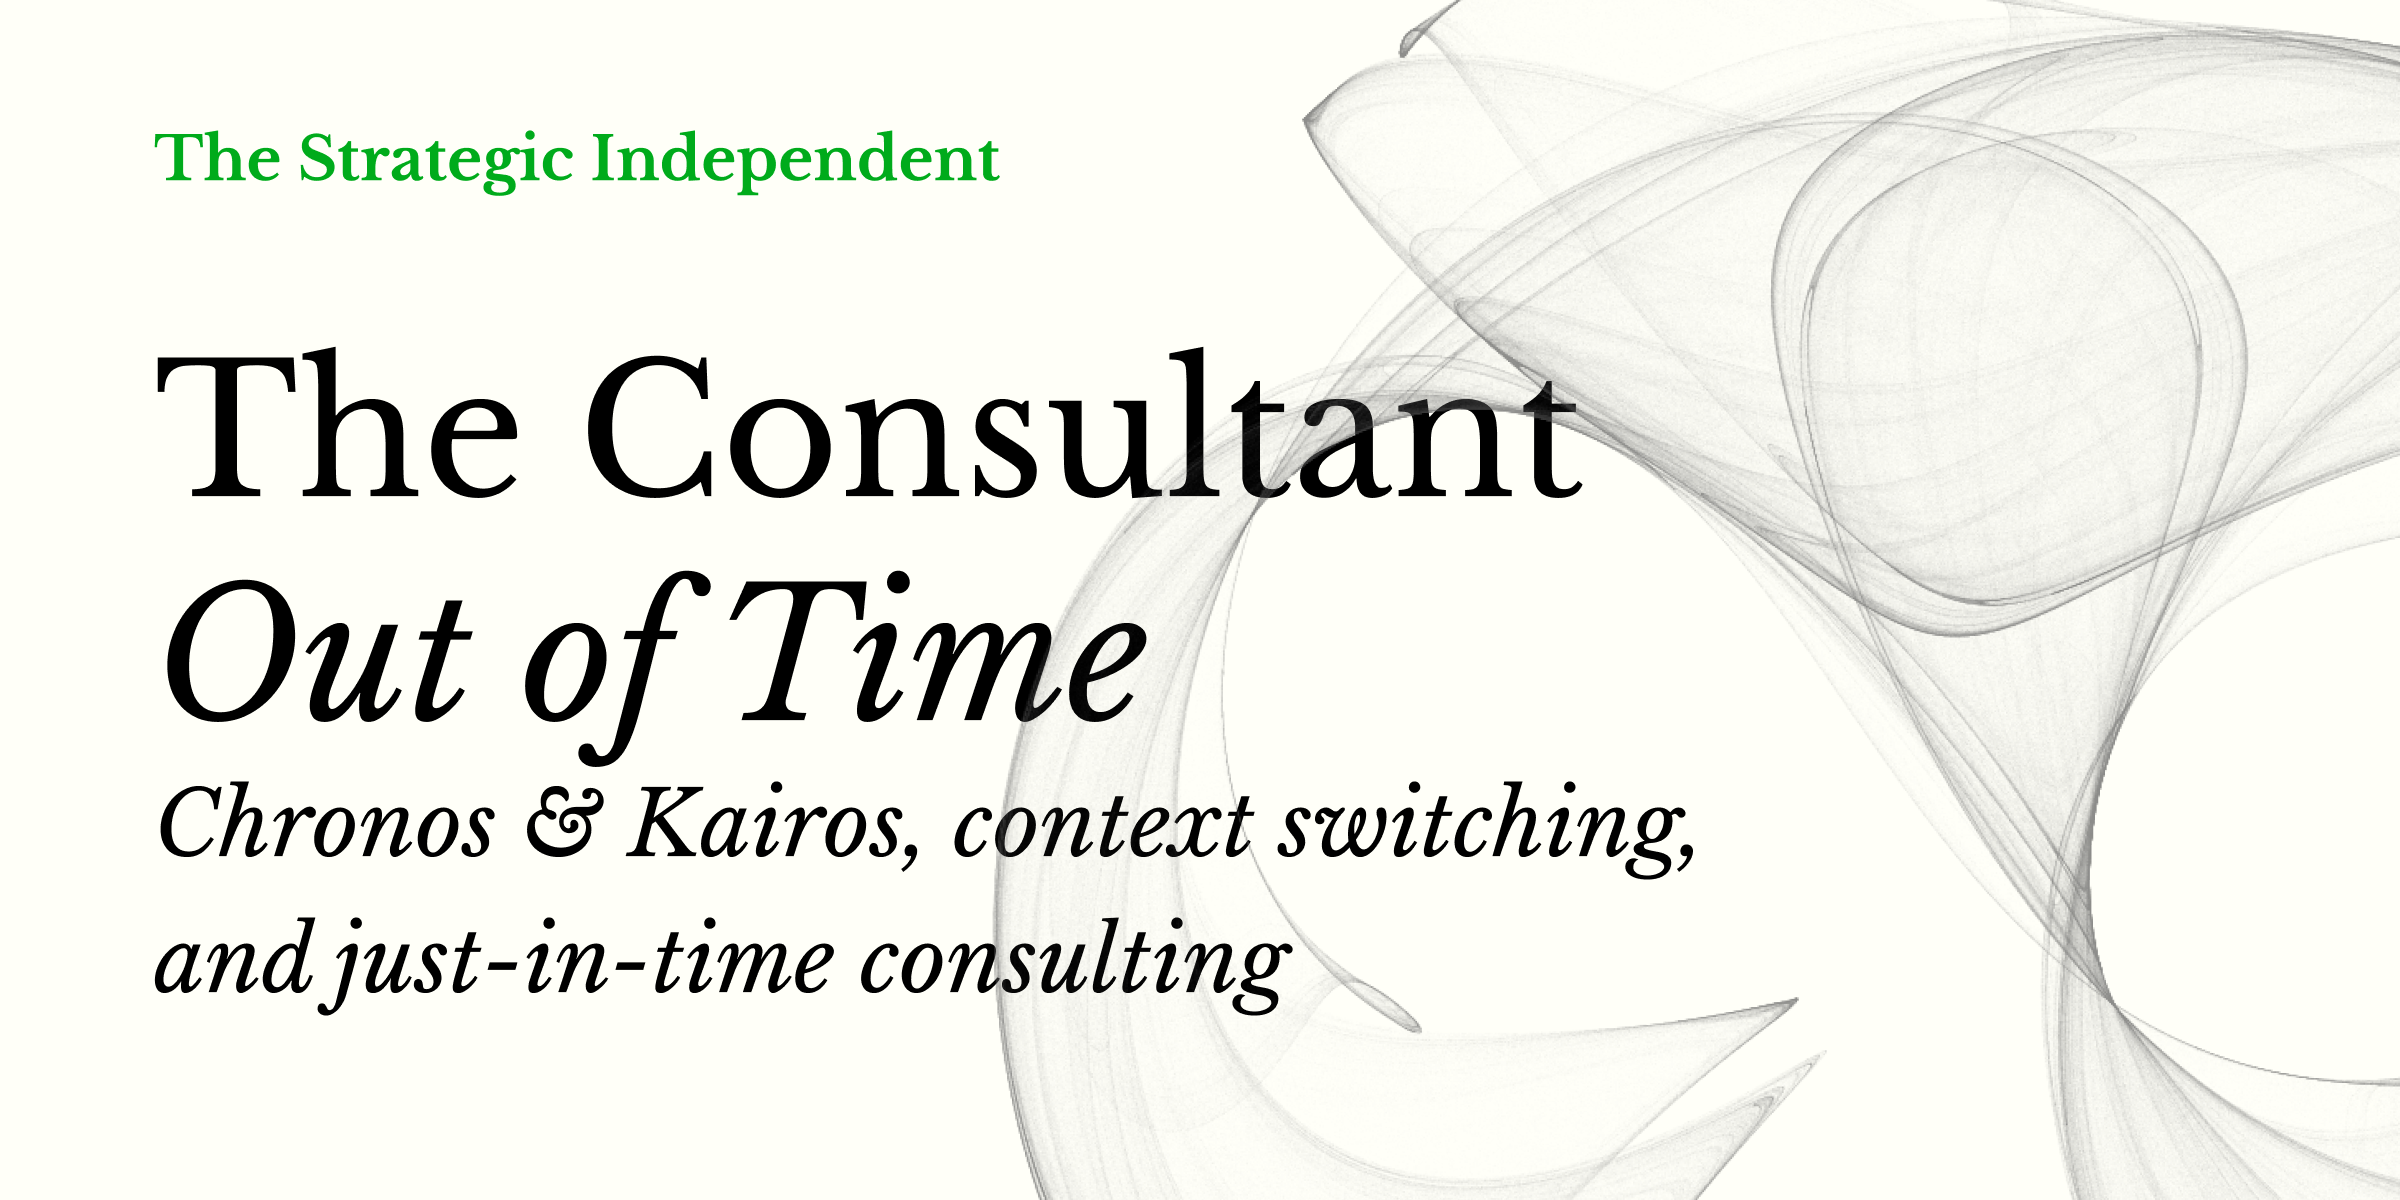
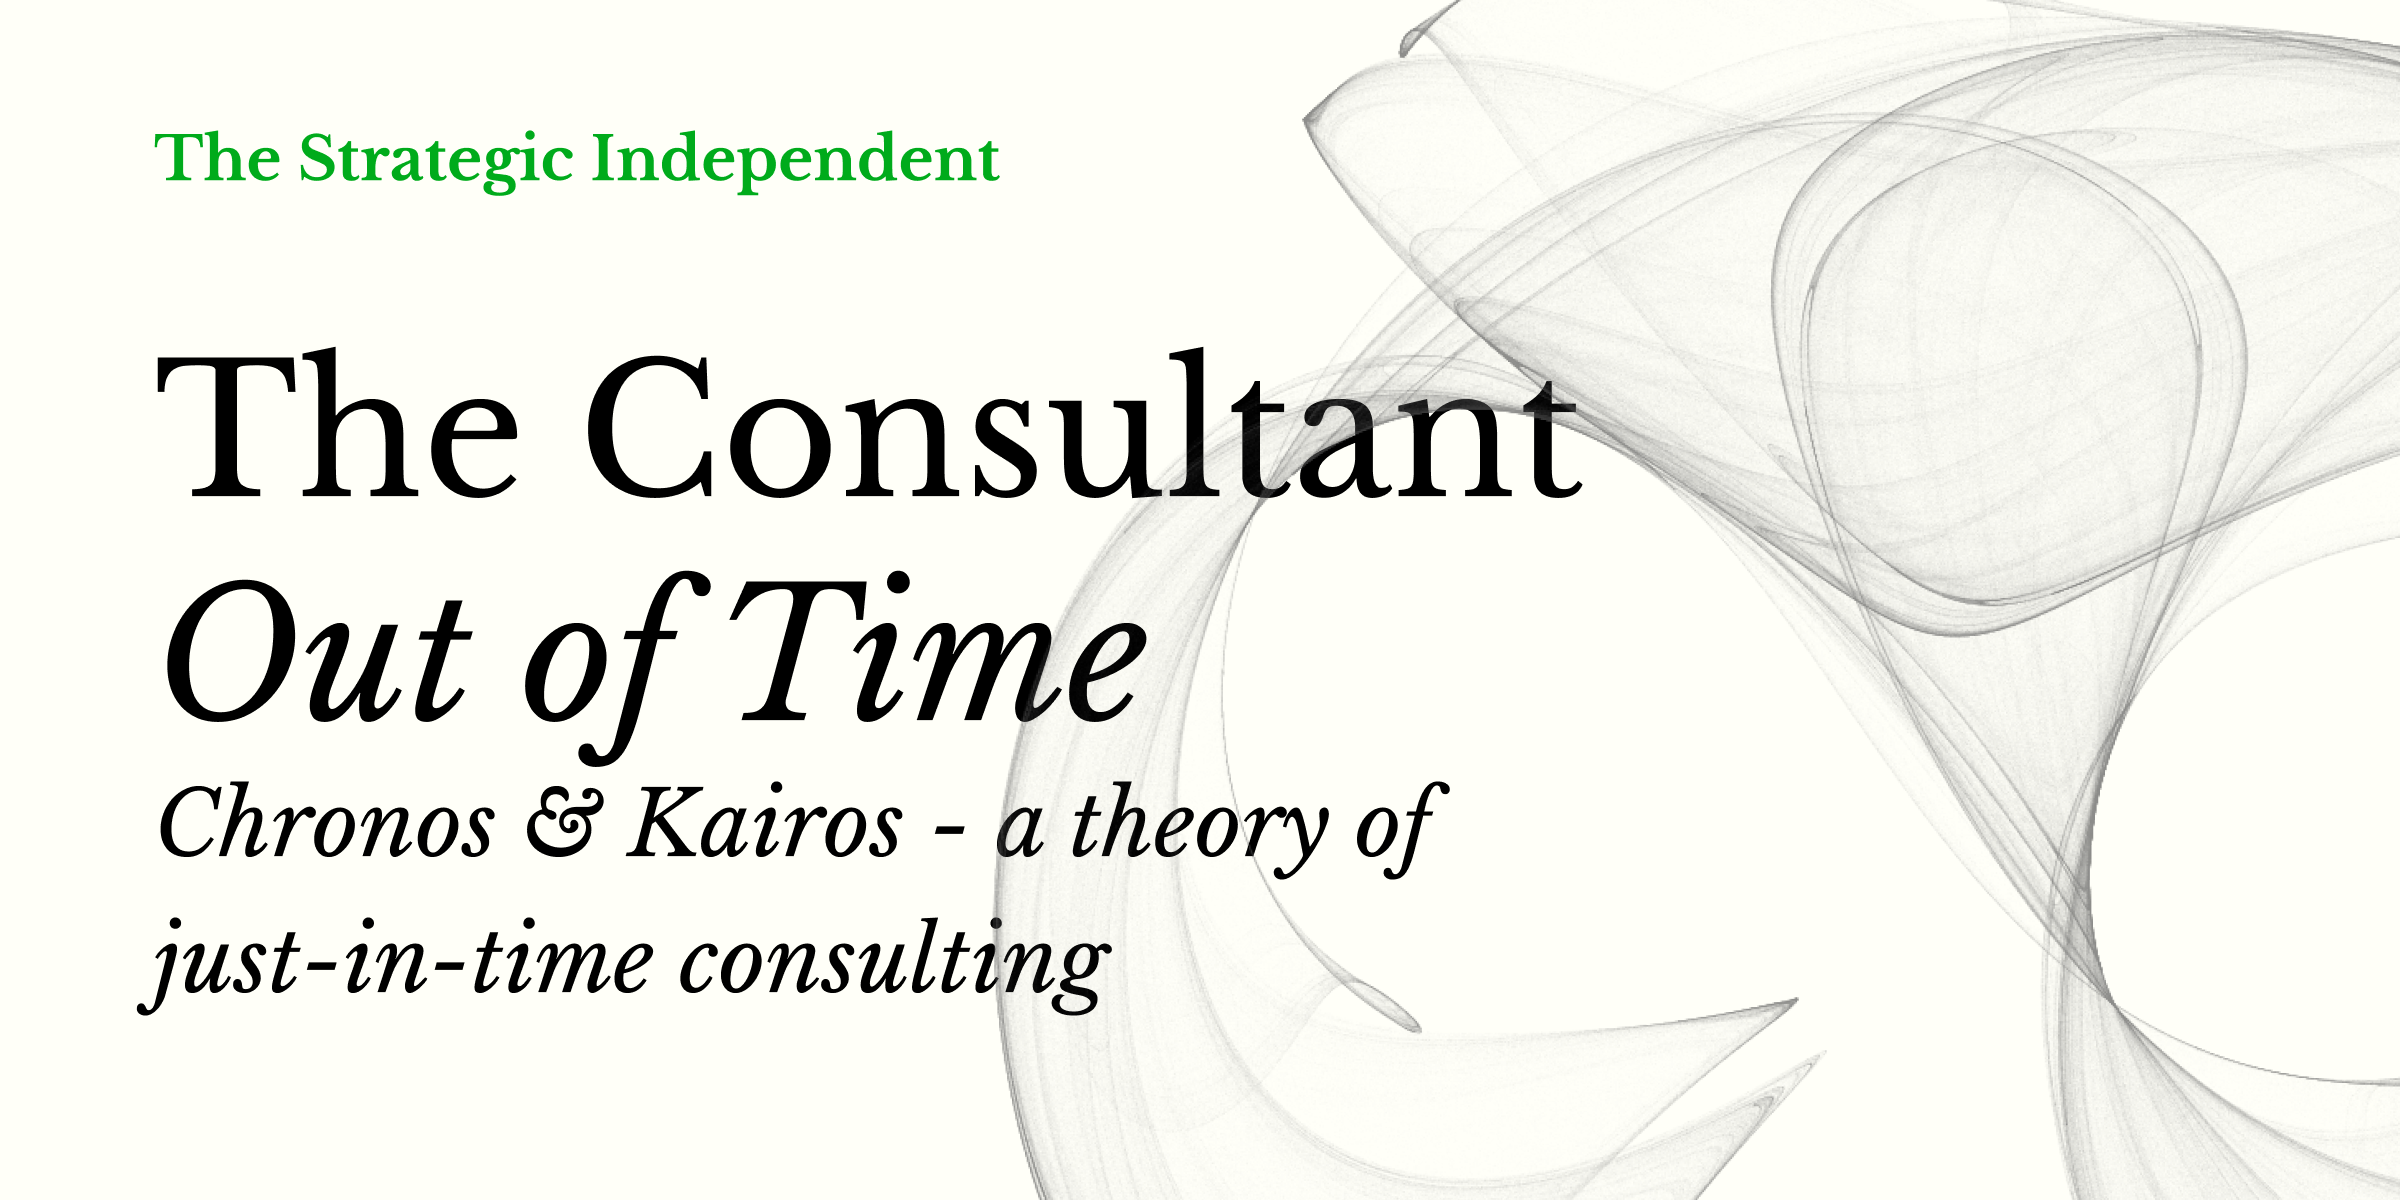
f

Changed region(s): [[0.0625, 0.7708, 0.5312, 0.8633], [0.375, 0.6475, 0.7188, 0.74]]

diff --git a/_posts/2021-01-26-kairos.md b/_posts/2021-01-26-kairos.md
@@ -1,7 +1,7 @@
 ---
 layout: strategy-new
 title: The Consultant Out of Time
-subtitle: Chronos & Kairos, context switching, and just-in-time consulting
+subtitle: "Chronos & Kairos - a framework for just-in-time consulting"
 tags: strategy
 og: https://tomcritchlow.com/images/kairos-og.png
 ---
